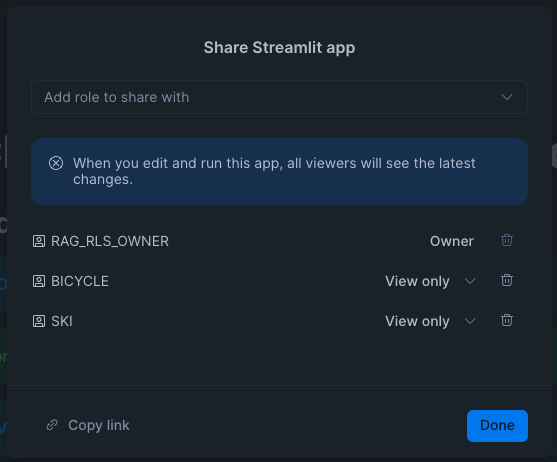
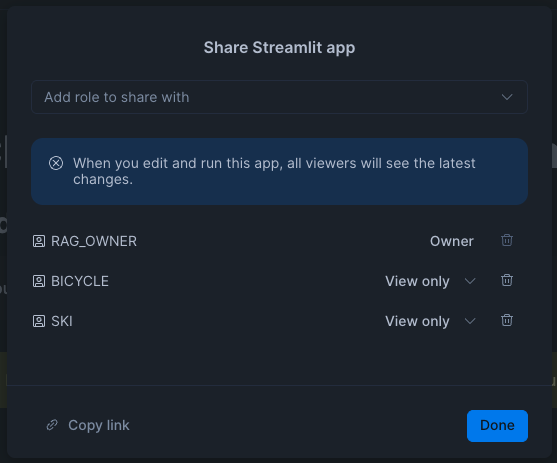
updated qs

diff --git a/site/sfguides/src/getting_started_with_access_controls_for_cortex_search/getting_started_with_access_controls_for_cortex_search.md b/site/sfguides/src/getting_started_with_access_controls_for_cortex_search/getting_started_with_access_controls_for_cortex_search.md
@@ -173,7 +173,7 @@ CREATE OR REPLACE TABLE EXTRACTED_TEXT_TABLE AS (
             AI_PARSE_DOCUMENT(docs, {'mode': 'OCR'}):content::VARCHAR AS EXTRACTED_TEXT,
             CASE
                 WHEN RELATIVE_PATH ILIKE '%ski%' THEN 'SKI'
-                WHEN RELATIVE_PATH ILIKE '%bike%' OR RELATIVE_PATH ILIKE '%bicycle%' THEN 'BICYCLES'
+                WHEN RELATIVE_PATH ILIKE '%bike%' OR RELATIVE_PATH ILIKE '%bicycle%' THEN 'BICYCLE'
                 ELSE 'Other'
             END AS product_department
             FROM documents_table
@@ -259,14 +259,10 @@ CREATE OR REPLACE STREAMLIT rag_access_control_app
 ALTER STREAMLIT rag_access_control_app ADD LIVE VERSION FROM LAST;
 ```
 
-# Test App as Owner
-Navigate to Projects > Streamlit in the left navigation menu. You should now see RAG_ACCESS_CONTROL_APP. Click to open the app.
+# Open App as Owner
+Navigate to Projects > Streamlit in the left navigation menu. You should now see RAG_ACCESS_CONTROL_APP. Click to open the app. Make sure you have assumed the role RAG_OWNER (you can check this by clicking over your initials in the bottom left of the screen) 
 
-You should now see the streamlit UI. Check it is working (as the Owner of the app) by typing in the question:
-
-"Tell me about the TD Ski Bootz"
-
-You should see a response generated based on the context it recieved from our unstructured documents.
+You should now see the streamlit UI. If you type a question, it will not respond with a helpful answer since the filters applied do not allow the owner role to see the underlying data via the app. Since the owner role owns the Cortex Search Service, it could however query the service directly outside of the app. If this were to be implemented, this role would not be granted to users that needed access controls applied to them. 
 
 # Share Streamlit App
 
@@ -275,6 +271,8 @@ We now want to test this functionality as different users with differnet permiss
 ![Grant Streamlit Access](assets/grant_streamlit_access.png)
 
 Select the 'Copy Link' button. Then Sign Out as the current user. You can find this button in the bottom left of the screen.
+
+Next sign out as the current user. You can find this by cliking your initials icon in the bottom left of the UI.
 
 # Test App as different users
 
@@ -286,7 +284,7 @@ First, lets see if we can see any information on bicycles. We should not, since 
 
 Ask "Tell me about the Mondracer bike"
 
-You should see that the app responded that it did not have any relevant information. Similarly the "Context Documents" in the left navigation menu should be empty.
+You should see that the app responded that it did not have any relevant information. Similarly the "Context Documents" in the left navigation menu (with Debug Mode on) should be empty.
 
 Now lets ask a question which should return results.
 
@@ -294,7 +292,19 @@ Ask "Tell me about the TD Ski Bootz"
 
 You should see a response and also relevant chunks being returned to answer the question.
 
-You can now test this for "bicycle_user" by logging out and logging back in.
+You can now test this for "bicycle_user" by logging out and logging back in as bicycle_user.
+
+When logged in as bicycle_user, ask:
+
+"Tell me about the Mondracer bike"
+
+You should see a response. 
+
+Next ask:
+
+"Tell me about the TD Ski Bootz".
+
+You should not see a response that references source documents.
 
 <!-- ------------------------ -->
 ## Understanding the Streamlit Code
@@ -307,6 +317,8 @@ Cortex Search Services runs with Owners rights by design. This is to ensure that
 In this app, we are following recommended best practice of using explicit filters on the client-side query to filter for access controls. These filters are based on user attributes that are obtained from the Authentication flow from logging in to Snowflake.
 
 Only the RLS_OWNER Role, which owns both the streamlit app and the Cortex Search Service, has the ability to use the Cortex Search Service, and modify any of the code within the streamlit app. Both the SKI and BICYCLE roles only have access to viwing and using the Streamlit app.
+
+
 
 
 
